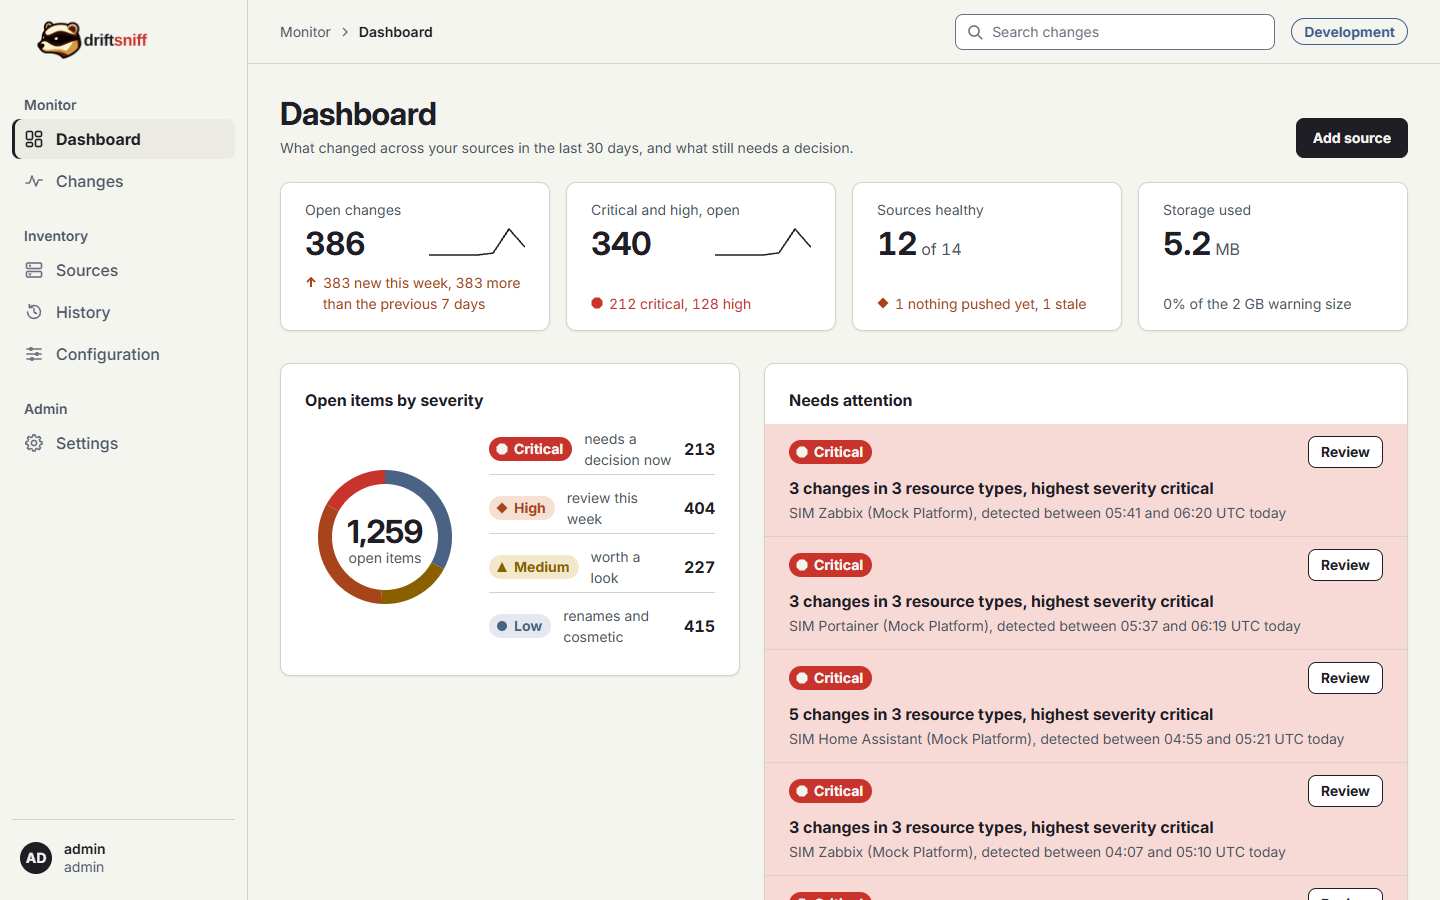
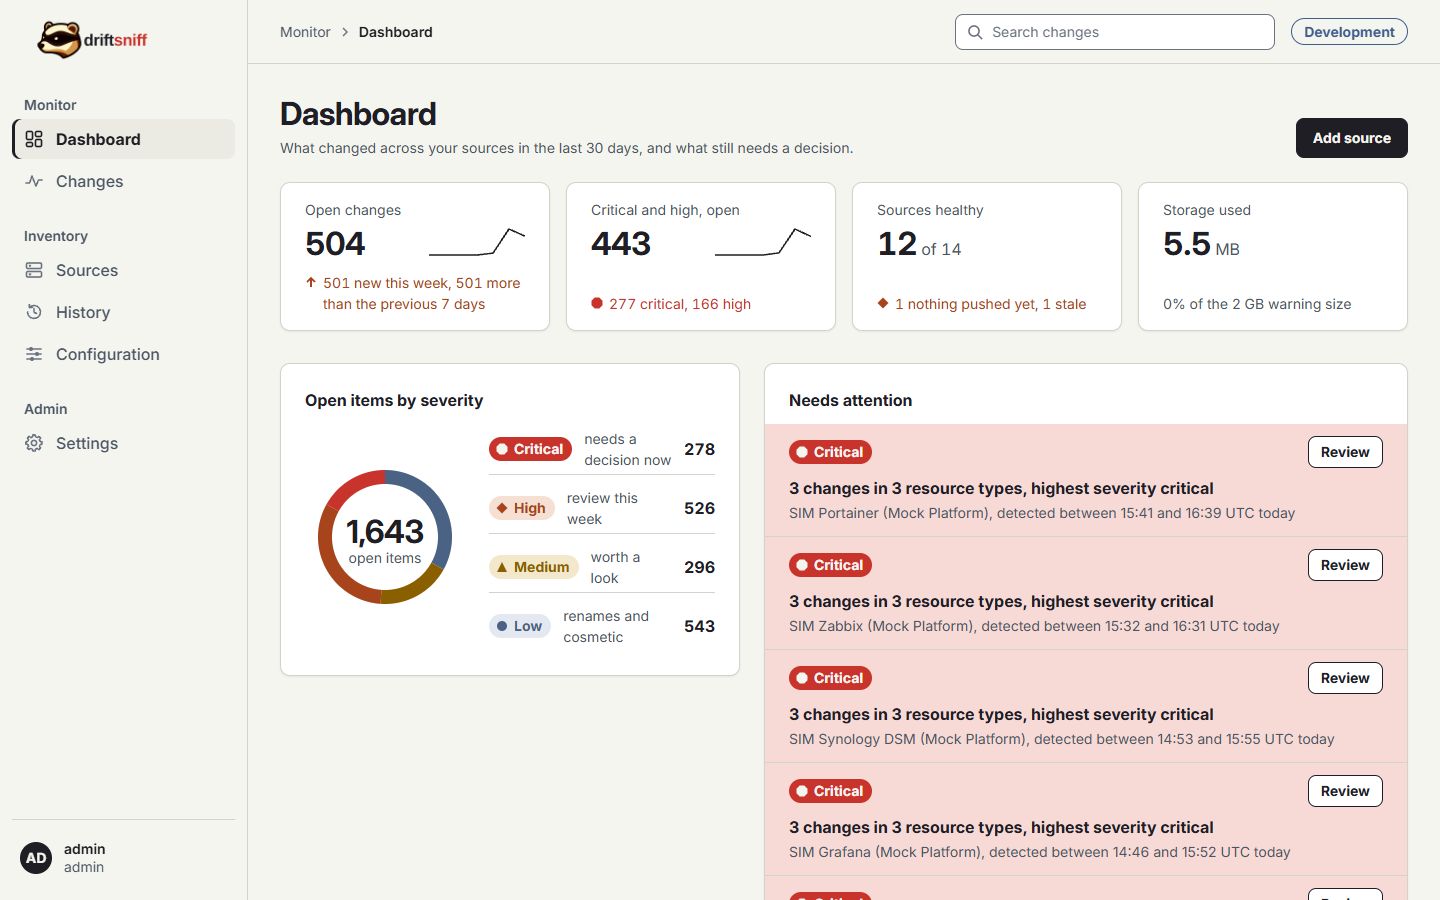
Retake the dashboard screenshots with the 3D lab
The eleven pictures of the dashboard (and the phone menu, which shows it)
are taken again on Development build 41b511db, after PR 162 replaced the
lane field with the lab of sources and the ferret. The capture scrolls the
lab into view first, because it draws only while on screen. Manifest
hashes, capture times and builds updated; the docs README says which
pictures come from which build.

diff --git a/docs/README.md b/docs/README.md
@@ -7,10 +7,11 @@ files are identical to those of build `63eaa6ad764955d1d57124ca7727e7bfcb49ddc9`
 that build only in the CI workflow and a CI test, which the image does not contain. Build
 `63eaa6ad` in turn differs from the earlier build `36f78cc95919b115103af19bd10773d9d69a7386` only
 in the hint under the push source form. All screenshots were retaken at
-`https://ce-dev-driftsniff.theriark.dev` on 14 November 2026 on the later Development build
-`63112500`, after the web UI revamp (the Inter typeface, the page change, the 3D drift field of
-the dashboard and the 3D change replay of a source page), so they show that build rather than
-the candidate above. All captures hold synthetic test data only. The
+`https://ce-dev-driftsniff.theriark.dev` on 14 November 2026 after the web UI revamp (the Inter
+typeface, the page change and the 3D change replay of a source page) on the later Development
+build `63112500`; the dashboard pictures were taken again the same day on build `41b511db`, which
+replaced the dashboard's 3D lane field with the 3D lab of sources and the ferret. They show those
+builds rather than the candidate above. All captures hold synthetic test data only. The
 [documentation manifest](documentation-manifest.json) lists every file with its SHA-256 and, for
 every screenshot, the build it was taken on.
 
